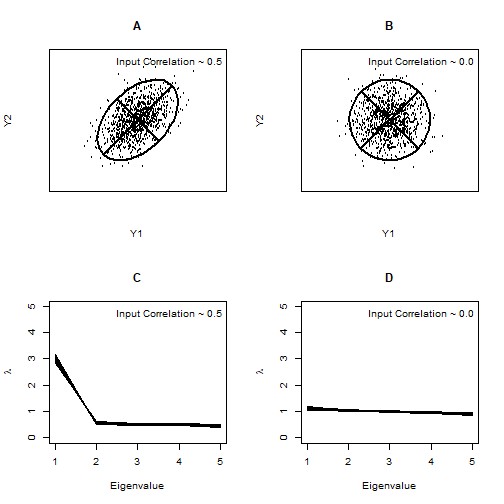
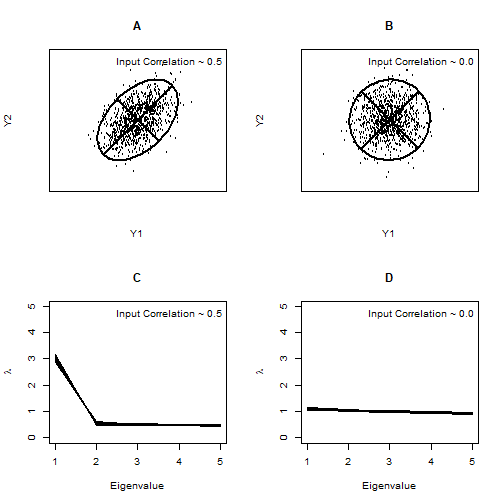
12

Changed region(s): [[0.6845, 0.1488, 0.8631, 0.3274], [0.1786, 0.1488, 0.3571, 0.3274]]

diff --git a/GMcourse/Lectures/12-IntegrationModularity.html b/GMcourse/Lectures/12-IntegrationModularity.html
@@ -4,7 +4,7 @@
     <title>12: Integration and Modularity</title>
     <meta charset="utf-8" />
     <meta name="author" content="" />
-    <script src="12-IntegrationModularity_files/header-attrs-2.27/header-attrs.js"></script>
+    <script src="12-IntegrationModularity_files/header-attrs-2.31/header-attrs.js"></script>
     <link rel="stylesheet" href="xaringan-themer.css" type="text/css" />
     <link rel="stylesheet" href="utilities.css" type="text/css" />
   </head>
@@ -30,7 +30,7 @@ class: center, middle, inverse, title-slide
 + These parts are to some extent correlated
 + Why is this the case?
 
-&lt;img src="LectureData/12.integr.mod/ConceptPic.png" width="70%" style="display: block; margin: auto;" /&gt;
+&lt;img src="LectureData/12.integr.mod/ConceptPic.png" alt="" width="70%" style="display: block; margin: auto;" /&gt;
 ---
 
 ### Trait Covariation: Integration `\(^1\)`
@@ -53,7 +53,7 @@ class: center, middle, inverse, title-slide
 + Correlations that are stronger among some subsets of traits than between others (Olson and Miller 1958)
 + Cohesion among traits that result from interactions of biological processes (Klingenberg 2008)
 
-&lt;img src="LectureData/12.integr.mod/2014-ArmbrusterIntegration.png" width="40%" style="display: block; margin: auto;" /&gt;
+&lt;img src="LectureData/12.integr.mod/2014-ArmbrusterIntegration.png" alt="" width="40%" style="display: block; margin: auto;" /&gt;
 
 ---
 
@@ -81,7 +81,7 @@ class: center, middle, inverse, title-slide
 ### Modularity
 
 + Modular structure in snakes 
-&lt;img src="LectureData/12.integr.mod/2021-Rhoda.png" width="40%" style="display: block; margin: auto;" /&gt;
+&lt;img src="LectureData/12.integr.mod/2021-Rhoda.png" alt="" width="40%" style="display: block; margin: auto;" /&gt;
 
 ---
 
@@ -90,7 +90,7 @@ class: center, middle, inverse, title-slide
 + Both integration and modularity may be observed at different biological levels, and be explained by different biological processes
   + Levels mirror those evaluated for allometric patterns: static, ontogenetic, evolutionary
 
-&lt;img src="LectureData/12.integr.mod/Klingenberg2014.png" width="70%" style="display: block; margin: auto;" /&gt;
+&lt;img src="LectureData/12.integr.mod/Klingenberg2014.png" alt="" width="70%" style="display: block; margin: auto;" /&gt;
 
 ---
 
@@ -111,6 +111,22 @@ class: center, middle, inverse, title-slide
 .footnote[1: As we will see, the empirical answer to the last few questions is found via RRPP]
 ---
 
+### Quantifying Integration and Modularity: Starting Points `\(^1\)`
+
++ Integration and modularity concern trait covariation
+
++ Mathematically, this requires estimating the trait covariance matrix:
+
+`$$\hat{\mathbf\Sigma} = \mathbf{Y_c^T}\mathbf{Y_c}/ (n-1)$$`
+
++ The `\(n:p\)` ratio is *critical* here: one must have sufficient observations relative to the number of variables for a reliable estimate of `\(\hat{\mathbf\Sigma}\)`
+
++ When this is not the case (and for GM data generally), `\(\hat{\mathbf\Sigma}\)` is singular, causing downstream mathematical challenges for some methods
+
+.footnote[1: Must-read paper relating random matrix theory to covariance estimation: Bookstein (2017). *Evol. Biol.*]
+
+---
+
 ### Methods for Evaluating Integration and Modularity
 
 + Here we review some methods for evaluating patterns of integration and modularity
@@ -118,6 +134,8 @@ class: center, middle, inverse, title-slide
   + 2: Methods for evaluating and comparing integration among subsets of traits
   + 3: Methods for evaluating and comparing modularity
 ---
+
+
 
 ### 1: Overall Integration
 
@@ -152,7 +170,7 @@ where `\(\mathbf{Z}\)` is an `\(n \times pk\)` matrix of Procrustes coordinates
   + Eigenvalues of `\(\hat{\Sigma}\)` describe the degree of covariation
   + Thus, the dispersion of `\(\lambda_p\)` for a set of `\(p\)` traits is one way to describe their integration
   
-&lt;img src="12-IntegrationModularity_files/figure-html/unnamed-chunk-5-1.png" width="35%" style="display: block; margin: auto;" /&gt;
+&lt;img src="12-IntegrationModularity_files/figure-html/unnamed-chunk-5-1.png" alt="" width="35%" style="display: block; margin: auto;" /&gt;
 
 ##### From Conaway and Adams 2022 (*Evol*)
 ---
@@ -178,11 +196,11 @@ VE | `\(\sum(\lambda_i-\overline{\lambda})^2/p\)`| Wagner, 1984
 + Only `\(V_{rel}\)` remains stable across `\(n\)` and `\(p\)`
 
 .pull-left[
-&lt;img src="LectureData/12.integr.mod/2022ConawayFig2a.png" width="95%" style="display: block; margin: auto;" /&gt;
+&lt;img src="LectureData/12.integr.mod/2022ConawayFig2a.png" alt="" width="95%" style="display: block; margin: auto;" /&gt;
 ]
 
 .pull-right[
-&lt;img src="LectureData/12.integr.mod/2022ConawayFig2b.png" width="95%" style="display: block; margin: auto;" /&gt;
+&lt;img src="LectureData/12.integr.mod/2022ConawayFig2b.png" alt="" width="95%" style="display: block; margin: auto;" /&gt;
 ]
 ---
 
@@ -193,7 +211,7 @@ VE | `\(\sum(\lambda_i-\overline{\lambda})^2/p\)`| Wagner, 1984
 + But variance unequal across input levels 
 + Can't compare across datasets
 
-&lt;img src="LectureData/12.integr.mod/2022ConawayFig3.png" width="70%" style="display: block; margin: auto;" /&gt;
+&lt;img src="LectureData/12.integr.mod/2022ConawayFig3.png" alt="" width="70%" style="display: block; margin: auto;" /&gt;
 ]
 
 --
@@ -203,7 +221,7 @@ VE | `\(\sum(\lambda_i-\overline{\lambda})^2/p\)`| Wagner, 1984
 + Rescale: `\(V_{rel}^*=2V_{rel}-1\)`  
 + Convert to `\(Z\)`-score: `\(Z_{Vrel}=\frac{1}{2}ln (\frac{1+V_{rel}^*}{1-V_{rel}^*})\)`
 
-&lt;img src="LectureData/12.integr.mod/2022ConawayFig4.png" width="70%" style="display: block; margin: auto;" /&gt;
+&lt;img src="LectureData/12.integr.mod/2022ConawayFig4.png" alt="" width="70%" style="display: block; margin: auto;" /&gt;
 ]
 
 ##### NOTE: redundant dimensions removed prior to estimating `\(V_{rel}\)`: See Conaway and Adams 2022 (Evol.)
@@ -215,7 +233,7 @@ VE | `\(\sum(\lambda_i-\overline{\lambda})^2/p\)`| Wagner, 1984
 + Statistically compare integration levels as: `\(\hat{Z}_{12}=\frac{\lvert{Z_1-Z_2}\rvert}{\sqrt{\sigma^2_{Z_1}+\sigma^2_{Z_2}}}\)`
 
 
-&lt;img src="LectureData/12.integr.mod/2022ConawayFig6.png" width="70%" style="display: block; margin: auto;" /&gt;
+&lt;img src="LectureData/12.integr.mod/2022ConawayFig6.png" alt="" width="70%" style="display: block; margin: auto;" /&gt;
 
 ---
 
@@ -278,7 +296,7 @@ compare.ZVrel(Vrel.gp$Jord, Vrel.gp$Teyah)
     + `\(\small\hat{\mathbf{\Sigma}}\)` can be considered a partitioned matrix, where different sub-components describe covariation within blocks or between blocks of variables
 
 .pull-left[
-&lt;img src="LectureData/06.covariation/CovMatParts2.png" width="80%" style="display: block; margin: auto;" /&gt;
+&lt;img src="LectureData/06.covariation/CovMatParts2.png" alt="" width="80%" style="display: block; margin: auto;" /&gt;
 ]
 
 .pull-right[
@@ -338,7 +356,7 @@ compare.ZVrel(Vrel.gp$Jord, Vrel.gp$Teyah)
 + *Pecos* pupfish
 + Is there an association between head shape and body shape?
 
-&lt;img src="LectureData/06.covariation/Pupfish Motivation.png" width="80%" style="display: block; margin: auto;" /&gt;
+&lt;img src="LectureData/06.covariation/Pupfish Motivation.png" alt="" width="80%" style="display: block; margin: auto;" /&gt;
 ]
 
 .pull-right[
@@ -385,7 +403,7 @@ summary(PLS)
 ## 
 ## r-PLS: 0.917
 ## 
-## Effect Size (Z): 5.4039
+## Effect Size (Z): 4.0479
 ## 
 ## P-value: 0.001
 ## 
@@ -403,7 +421,7 @@ summary(PLS)
 plot(PLS)
 ```
 
-&lt;img src="12-IntegrationModularity_files/figure-html/unnamed-chunk-16-1.png" width="80%" style="display: block; margin: auto;" /&gt;
+&lt;img src="12-IntegrationModularity_files/figure-html/unnamed-chunk-16-1.png" alt="" width="80%" style="display: block; margin: auto;" /&gt;
 ]
 ]
 ---
@@ -428,7 +446,7 @@ plot(PLS)
 
 
 
-&lt;img src="12-IntegrationModularity_files/figure-html/unnamed-chunk-18-1.png" width="30%" style="display: block; margin: auto;" /&gt;
+&lt;img src="12-IntegrationModularity_files/figure-html/unnamed-chunk-18-1.png" alt="" width="30%" style="display: block; margin: auto;" /&gt;
 
 + For the pupfish dataset, both are significant at p = 0.001
 ---
@@ -437,7 +455,7 @@ plot(PLS)
 
 Compare permutation distributions with one another (minus observed in this case)
 
-&lt;img src="12-IntegrationModularity_files/figure-html/unnamed-chunk-19-1.png" width="40%" style="display: block; margin: auto;" /&gt;
+&lt;img src="12-IntegrationModularity_files/figure-html/unnamed-chunk-19-1.png" alt="" width="40%" style="display: block; margin: auto;" /&gt;
 
 + All things considered, *r~PLS~* performs better 
 ---
@@ -446,7 +464,7 @@ Compare permutation distributions with one another (minus observed in this case)
 
 + Cranial integration for pairs of modules in *Homo*
 
-&lt;img src="LectureData/12.integr.mod/PLS-Bookstein03.png" width="70%" style="display: block; margin: auto;" /&gt;
+&lt;img src="LectureData/12.integr.mod/PLS-Bookstein03.png" alt="" width="70%" style="display: block; margin: auto;" /&gt;
 ---
 
 ### 2B: Comparing Integration Across Datasets
@@ -454,7 +472,7 @@ Compare permutation distributions with one another (minus observed in this case)
 + One may wish to compare integration among subsets across datasets
 + Cannot do so directly with `\(RV\)` or `\(r_{PLS}\)` as both vary with `\(n\)` and `\(p\)`
 
-&lt;img src="LectureData/12.integr.mod/RV.PLS.n.p.png" width="50%" style="display: block; margin: auto;" /&gt;
+&lt;img src="LectureData/12.integr.mod/RV.PLS.n.p.png" alt="" width="50%" style="display: block; margin: auto;" /&gt;
 
 + We require appropriate effect sizes for comparison
 ---
@@ -465,7 +483,7 @@ Compare permutation distributions with one another (minus observed in this case)
 
 `$$\mathbf{Z}=\frac{r_{PLS_{obs}}-\mu_{r_{PLS_{rand}}}}{\sigma_{r_{PLS_{rand}}}}$$`
 
-&lt;img src="LectureData/12.integr.mod/Z-PLS-WithN-P.png" width="50%" style="display: block; margin: auto;" /&gt;
+&lt;img src="LectureData/12.integr.mod/Z-PLS-WithN-P.png" alt="" width="50%" style="display: block; margin: auto;" /&gt;
 
 + Statistical comparisons of effect sizes are then possible:
 
@@ -479,7 +497,7 @@ Compare permutation distributions with one another (minus observed in this case)
 + Are the modules of lizard heads equally integrated across environments?
 + Does this integration change ontogenetically?
 
-&lt;img src="LectureData/12.integr.mod/CompareIntegr_example.png" width="50%" style="display: block; margin: auto;" /&gt;
+&lt;img src="LectureData/12.integr.mod/CompareIntegr_example.png" alt="" width="50%" style="display: block; margin: auto;" /&gt;
 
 + Yes it does!
 ---
@@ -522,23 +540,23 @@ compare.pls(integ.tests)
 ## Effect sizes
 ## 
 ##    Marsh.F    Marsh.M Sinkhole.F Sinkhole.M 
-##  3.1410345  1.5130737  0.7429882  2.7156556 
+##  2.4886002  1.2516903  0.0945271  2.3365695 
 ## 
 ## Effect sizes for pairwise differences in PLS effect size
 ## 
 ##              Marsh.F   Marsh.M Sinkhole.F Sinkhole.M
-## Marsh.F    0.0000000 0.6586628  1.9027247  0.7518767
-## Marsh.M    0.6586628 0.0000000  0.8778808  1.1927859
-## Sinkhole.F 1.9027247 0.8778808  0.0000000  2.0927712
-## Sinkhole.M 0.7518767 1.1927859  2.0927712  0.0000000
+## Marsh.F    0.0000000 0.7459731  1.6360295  0.1441450
+## Marsh.M    0.7459731 0.0000000  0.8349064  0.6162844
+## Sinkhole.F 1.6360295 0.8349064  0.0000000  1.5128576
+## Sinkhole.M 0.1441450 0.6162844  1.5128576  0.0000000
 ## 
 ## P-values
 ## 
-##               Marsh.F   Marsh.M Sinkhole.F Sinkhole.M
-## Marsh.F    1.00000000 0.5101123 0.05707647 0.45212519
-## Marsh.M    0.51011230 1.0000000 0.38000838 0.23295324
-## Sinkhole.F 0.05707647 0.3800084 1.00000000 0.03636958
-## Sinkhole.M 0.45212519 0.2329532 0.03636958 1.00000000
+##              Marsh.F   Marsh.M Sinkhole.F Sinkhole.M
+## Marsh.F    1.0000000 0.4556837  0.1018334  0.8853860
+## Marsh.M    0.4556837 1.0000000  0.4037704  0.5377068
+## Sinkhole.F 0.1018334 0.4037704  1.0000000  0.1303158
+## Sinkhole.M 0.8853860 0.5377068  0.1303158  1.0000000
 ```
 ]
 
@@ -578,7 +596,7 @@ compare.pls(integ.tests)
 
 + Sewall Wright's 'chickenbone' dataset
 
-&lt;img src="LectureData/12.integr.mod/Magwene-Chickenbone.png" width="70%" style="display: block; margin: auto;" /&gt;
+&lt;img src="LectureData/12.integr.mod/Magwene-Chickenbone.png" alt="" width="70%" style="display: block; margin: auto;" /&gt;
 ---
 
 ### 3: Identifying Modularity
@@ -587,7 +605,7 @@ compare.pls(integ.tests)
 
 + Modules: tightly integrated sets of traits, which are relatively independent from other such sets
 
-&lt;img src="LectureData/12.integr.mod/ModulCovBtwn.png" width="70%" /&gt;
+&lt;img src="LectureData/12.integr.mod/ModulCovBtwn.png" alt="" width="70%" /&gt;
 ---
 
 ### 3: Quantifying Modularity: `\(CR\)` Coefficient `\(^1\)`
@@ -602,7 +620,7 @@ compare.pls(integ.tests)
 
 + The `\(CR\)` coefficient does *NOT* vary with *n* and *p*:
 
-&lt;img src="LectureData/12.integr.mod/CRPattern.png" width="50%" style="display: block; margin: auto;" /&gt;
+&lt;img src="LectureData/12.integr.mod/CRPattern.png" alt="" width="50%" style="display: block; margin: auto;" /&gt;
 
 .footnote[1: Adams (2016). *Methods Ecol. Evol.*]
 ---
@@ -611,12 +629,12 @@ compare.pls(integ.tests)
 
 + The `\(CR\)` coefficient displays appropriate statistical properties
 
-&lt;img src="LectureData/12.integr.mod/CRStatProp.png" width="60%" style="display: block; margin: auto;" /&gt;
+&lt;img src="LectureData/12.integr.mod/CRStatProp.png" alt="" width="60%" style="display: block; margin: auto;" /&gt;
 ---
 
 ### 3: `\(CR\)` Coefficient: Examples
 
-&lt;img src="LectureData/12.integr.mod/CRExamples.png" width="80%" style="display: block; margin: auto;" /&gt;
+&lt;img src="LectureData/12.integr.mod/CRExamples.png" alt="" width="80%" style="display: block; margin: auto;" /&gt;
 ---
 
 ### 3: Evaluating Modularity: Example 2
@@ -642,7 +660,7 @@ modularity.test(Y.gpa$coords,land.gps,CI=FALSE,print.progress = FALSE)
 ## 
 ## P-value: 0.021
 ## 
-## Effect Size: -2.3097
+## Effect Size: -2.5372
 ## 
 ## Based on 1000 random permutations
 ```
@@ -673,7 +691,7 @@ modularity.test(Y.gpa$coords,land.gps,CI=FALSE,print.progress = FALSE)
 + Which is the most supported modular division for the mouse mandible?
 + Do some species exhibit higher modularity than others?
 
-&lt;img src="LectureData/12.integr.mod/Fig6.png" width="35%" style="display: block; margin: auto;" /&gt;
+&lt;img src="LectureData/12.integr.mod/Fig6.png" alt="" width="35%" style="display: block; margin: auto;" /&gt;
 
 ---
 
@@ -714,35 +732,37 @@ compare.CR(modul.tests, CR.null = FALSE)
 ## Effect sizes
 ## 
 ##    Marsh.F    Marsh.M Sinkhole.F Sinkhole.M 
-## -0.7265087 -4.1650804 -2.4916997 -2.1320218 
+## -0.7122406 -6.1888526 -2.7484794 -2.3249016 
 ## 
 ## Effect sizes for pairwise differences in CR effect size
 ## 
-##             Marsh.F    Marsh.M Sinkhole.F Sinkhole.M
-## Marsh.F    0.000000 2.45689940 1.74666288  1.0170828
-## Marsh.M    2.456899 0.00000000 0.07932252  1.4191065
-## Sinkhole.F 1.746663 0.07932252 0.00000000  0.9811416
-## Sinkhole.M 1.017083 1.41910651 0.98114159  0.0000000
+##             Marsh.F   Marsh.M Sinkhole.F Sinkhole.M
+## Marsh.F    0.000000 3.8374119  1.9376264   1.060274
+## Marsh.M    3.837412 0.0000000  0.9564783   2.910127
+## Sinkhole.F 1.937626 0.9564783  0.0000000   1.185136
+## Sinkhole.M 1.060274 2.9101269  1.1851359   0.000000
 ## 
 ## P-values
 ## 
-##               Marsh.F    Marsh.M Sinkhole.F Sinkhole.M
-## Marsh.F    1.00000000 0.01401419 0.08069583  0.3091141
-## Marsh.M    0.01401419 1.00000000 0.93677609  0.1558680
-## Sinkhole.F 0.08069583 0.93677609 1.00000000  0.3265229
-## Sinkhole.M 0.30911405 0.15586797 0.32652292  1.0000000
+##                 Marsh.F      Marsh.M Sinkhole.F Sinkhole.M
+## Marsh.F    1.0000000000 0.0001243378 0.05266882 0.28901994
+## Marsh.M    0.0001243378 1.0000000000 0.33883062 0.00361282
+## Sinkhole.F 0.0526688231 0.3388306177 1.00000000 0.23596372
+## Sinkhole.M 0.2890199439 0.0036128200 0.23596372 1.00000000
 ```
 ]
 
 ---
+
 
 ### Integration and Modularity: Perspectives
 
 + Integration and modularity are of relevance for many E&amp;E questions
 
 + All approaches decompose information in `\(\hat{\mathbf{\Sigma}}\)`
+  + Estimating `\(\hat{\mathbf{\Sigma}}\)` requires sufficient `\(n\)` vs `\(p\)`
 
-+ Require methods that are robust to `\(n\)` and `\(p\)`
++ Summary measures must be robust to `\(n\)` and `\(p\)` (see RV vs. CR)
 
 + Effect sizes of test statistics are most useful, and can be compared
   + Overall integration for a set of traits: `\(Z_{Vrel}\)`
@@ -755,14 +775,14 @@ compare.CR(modul.tests, CR.null = FALSE)
 <style data-target="print-only">@media screen {.remark-slide-container{display:block;}.remark-slide-scaler{box-shadow:none;}}</style>
 <script src="https://remarkjs.com/downloads/remark-latest.min.js"></script>
 <script>var slideshow = remark.create({
-"navigation": {
-"scroll": false
-},
-"highlightStyle": "solarized-light",
-"highlightLines": true,
-"countIncrementalSlides": false,
-"ratio": "16:9",
-"self_contained": false
+  "navigation": {
+    "scroll": false
+  },
+  "highlightStyle": "solarized-light",
+  "highlightLines": true,
+  "countIncrementalSlides": false,
+  "ratio": "16:9",
+  "self_contained": false
 });
 if (window.HTMLWidgets) slideshow.on('afterShowSlide', function (slide) {
   window.dispatchEvent(new Event('resize'));

diff --git a/GMcourse/Lectures/12-IntegrationModularity_files/header-attrs-2.31/header-attrs.js b/GMcourse/Lectures/12-IntegrationModularity_files/header-attrs-2.31/header-attrs.js
@@ -1,0 +1,12 @@
+// Pandoc 2.9 adds attributes on both header and div. We remove the former (to
+// be compatible with the behavior of Pandoc < 2.8).
+document.addEventListener('DOMContentLoaded', function(e) {
+  var hs = document.querySelectorAll("div.section[class*='level'] > :first-child");
+  var i, h, a;
+  for (i = 0; i < hs.length; i++) {
+    h = hs[i];
+    if (!/^h[1-6]$/i.test(h.tagName)) continue;  // it should be a header h1-h6
+    a = h.attributes;
+    while (a.length > 0) h.removeAttribute(a[0].name);
+  }
+});
